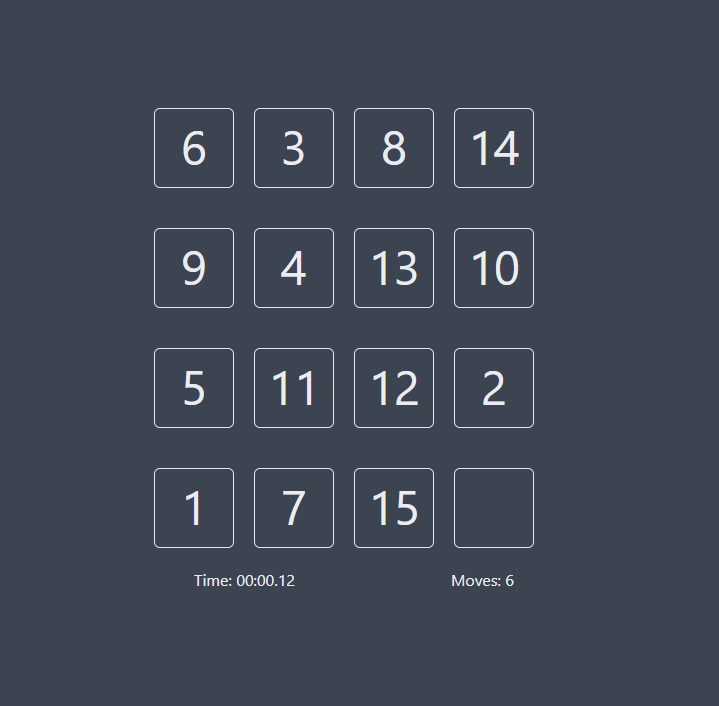
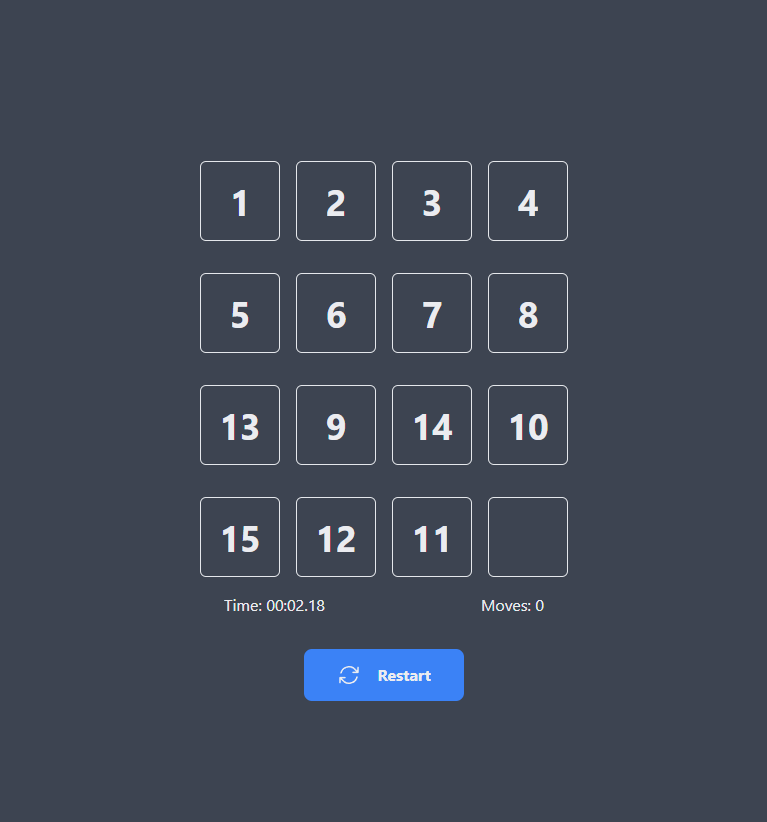
.

diff --git a/src/components/Matsuyama.vue b/src/components/Matsuyama.vue
@@ -1,14 +1,14 @@
 <template>
-  <div class="flex flex-col items-center justify-center mt-48">
-    <div class="flex flex-col items-center" v-if="!newGame && !endGame">
+  <div class="flex flex-col items-center justify-center md:mt-48 mt-32">
+    <div class="flex flex-col items-center md:mt-48 mt-32" v-if="!newGame && !endGame">
       <span class="text-5xl mb-10">Start new game?</span>
-      <button class="w-18 border-2 p-3 rounded-lg bg-blue-500 border-blue-500 font-bold cursor-pointer" @click="startGame()">New game</button>
+      <button class="w-18 border-2 p-3 rounded-lg bg-green-500 border-green-500 font-bold cursor-pointer" @click="startGame()">New game</button>
     </div>
     <template v-if="newGame">
-      <div v-for="(columns, index) in numbers" class="flex w-full h-full justify-center">
-        <div v-for="(value, index2) in columns" class="flex-col mr-5">
-          <div class="felx h-20 w-20 my-5 pt-3 text-center cursor-pointer border border-2 rounded-md" @click="changeTile(value, index, index2)">
-            <span class="text-5xl">{{ value }}</span>
+      <div v-for="(columns, index) in numbers" class="flex w-full justify-center m-2">
+        <div v-for="(value, index2) in columns" class="flex flex-col h-full justify-center m-2">
+          <div class="flex items-center justify-center md:w-20 md:h-20 w-16 h-16 cursor-pointer border border-2 rounded-md" @click="changeTile(value, index, index2)">
+            <span class="text-4xl font-bold">{{ value }}</span>
           </div>
         </div>
       </div>
@@ -16,13 +16,23 @@
         <span>Time: {{timer}}</span>
         <span>Moves: {{ count }}</span>
       </div>
+      <div class="mt-8 w-40">
+        <button @click="startGame()" class="flex justify-center w-full border-2 p-3 rounded-lg bg-blue-500 border-blue-500 font-bold cursor-pointer">
+          <div class="w-6 h-6 mr-4">
+            <svg fill="none" stroke="currentColor" stroke-width="1.5" viewBox="0 0 24 24" xmlns="http://www.w3.org/2000/svg" aria-hidden="true">
+            <path stroke-linecap="round" stroke-linejoin="round" d="M16.023 9.348h4.992v-.001M2.985 19.644v-4.992m0 0h4.992m-4.993 0l3.181 3.183a8.25 8.25 0 0013.803-3.7M4.031 9.865a8.25 8.25 0 0113.803-3.7l3.181 3.182m0-4.991v4.99"></path>
+          </svg>
+          </div>
+          <span>Restart</span>
+        </button>
+      </div>
     </template>
     <template v-if="!newGame && endGame">
         <div class="flex flex-col items-center">
           <span class="text-5xl mb-4">You Win!!!</span>
           <span class="text-3xl mb-4">Time: {{ timer }}</span>
           <span class="text-3xl mb-8">Moves: {{ count }}</span>
-          <button class="w-18 border-2 p-3 rounded-lg bg-blue-500 border-blue-500 font-bold cursor-pointer" @click="startGame()">New game</button>
+          <button class="w-18 border-2 p-3 rounded-lg bg-green-500 border-green-500 font-bold cursor-pointer" @click="startGame()">New game</button>
         </div>
     </template>
   </div>
@@ -79,6 +89,8 @@ export default {
       if (!this.randomNumbers.includes(randomNumber)) {
         this.randomNumbers.push(randomNumber)
       } 
+
+      this.randomNumbers = [1,2,3,4,5,6,7,8,13,9,14,10,15,12,11]
 
       this.generateRandomGrid();      
     },
@@ -183,6 +195,9 @@ export default {
         this.numbers[emptyTile.x + 1][emptyTile.y] = undefined; 
         this.count = this.count + 1;
       }
+
+      this.checkAnswer();
+
     },
 
     startGame() {

diff --git a/src/components.d.ts b/src/components.d.ts
@@ -4,14 +4,7 @@
 
 declare module 'vue' {
   export interface GlobalComponents {
-    ButtonRepo: typeof import('./components/ButtonRepo.vue')['default']
-    CopyRight: typeof import('./components/CopyRight.vue')['default']
-    GithubRibbon: typeof import('./components/GithubRibbon.vue')['default']
-    HelloWorld: typeof import('./components/HelloWorld.vue')['default']
     Matsuyama: typeof import('./components/Matsuyama.vue')['default']
-    MyFooter: typeof import('./components/MyFooter.vue')['default']
-    MyHeader: typeof import('./components/MyHeader.vue')['default']
-    README: typeof import('./components/README.md')['default']
   }
 }
 
